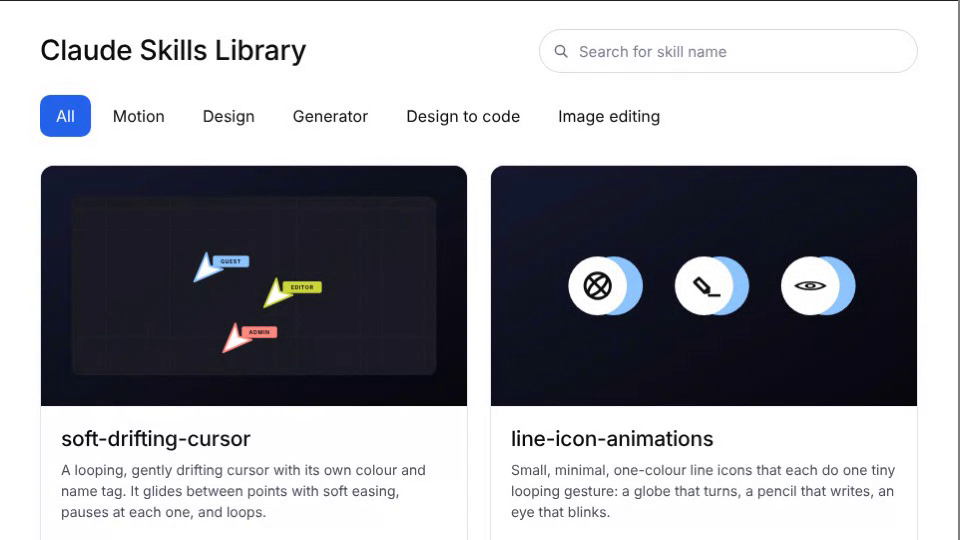
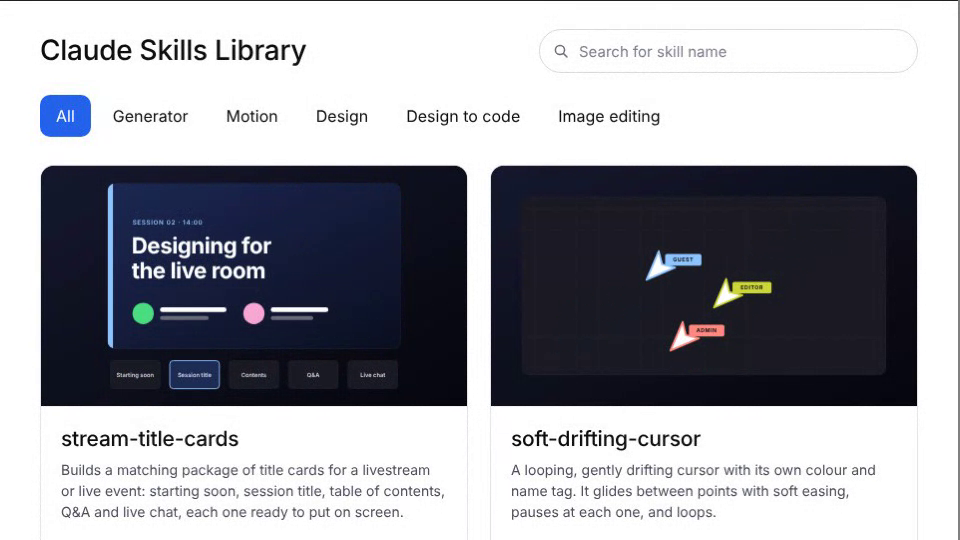
Skills Library: stream-title-cards entry (starting soon, session title, contents, Q&A, live chat)
Claude-Session: https://claude.ai/code/session_016rpgubnqZgbgFVCTgTmm7G

diff --git a/skills-library/index.html b/skills-library/index.html
@@ -145,6 +145,14 @@ var ICON={
 };
 var SKILLS=[
   {
+    title:'stream-title-cards',
+    desc:'Builds a matching package of title cards for a livestream or live event: starting soon, session title, table of contents, Q&A and live chat, each one ready to put on screen.',
+    category:'Generator', cIcon:'image',
+    use:'Livestreams and webinars', uIcon:'motion',
+    art:'art/stream-title-cards.svg',
+    alt:'A 16:9 screen cycles through five stream cards: a starting soon countdown, a session title with speakers, an agenda, a Q&A card and a live chat panel, with a tab row below marking each one'
+  },
+  {
     title:'soft-drifting-cursor',
     desc:'A looping, gently drifting cursor with its own colour and name tag. It glides between points with soft easing, pauses at each one, and loops.',
     category:'Motion', cIcon:'motion',
@@ -332,6 +340,9 @@ var EX={
 'asset-generator-engine':[['blog-banner-studio','Blog Banner Studio'],['conference-post-generator','Conference Post Creator'],['lifecycle-image-engine','Lifecycle Image Studio'],['hero-banner-engine','Banner Template Studio'],['postmark-ribbon-engine','Postmark Awards Ribbon Engine'],['grubclub-end-card','Grubclub End Card Maker'],['https://kristynagottvald.github.io/sketches/ribbon-text/','Postmark Awards','https://kristynagottvald.github.io/sketches/clips/ribbon-text.webp','https://kristynagottvald.github.io/sketches/ribbon-text/thumbnail.jpg'],['https://kristynagottvald.github.io/sketches/pattern-generator/','Pattern Generator','https://kristynagottvald.github.io/sketches/clips/pattern-generator.webp','https://kristynagottvald.github.io/sketches/pattern-generator/thumbnail.jpg']]};
 var RM=window.matchMedia&&matchMedia('(prefers-reduced-motion: reduce)').matches;
 var D={
+'stream-title-cards':{saves:'Designing every holding screen and lower third for a stream from scratch',work:["Designing a starting soon screen, a title card, an agenda, a Q&A slide and a chat overlay one at a time, and keeping them consistent","Retyping the session name, speakers, times and agenda into every card whenever the running order changes","Exporting each card at 16:9 for OBS, StreamYard or Zoom, and wiring up a countdown that actually counts down"],
+ p:["This skill builds a full set of on-screen cards for a livestream, webinar or live event, in one consistent look. You choose which cards the package needs from five options: Starting soon, Session title, Table of contents, Q&A and Live chat.","Starting soon is a holding screen with a live countdown to the start time and a gently looping background, so the stream can go live early. Session title shows the session name, time and each speaker’s name and role. Table of contents lists the agenda as numbered sections and can highlight the one in progress. Q&A invites questions and shows the current one on a card. Live chat leaves room for a chat feed beside the speaker, with a LIVE badge.","Every card shares one set of brand colours, type and spacing, and reads its text from a single list of session details, so changing the title, time or agenda once updates the whole package. Each card renders at 1920×1080 and can be shown full screen as a browser source in OBS or StreamYard, or exported as a still or a short looping clip."],
+ prompts:["Use stream-title-cards to make a livestream package with starting soon, session title, table of contents, Q&A and live chat cards.","Make a starting soon card with a countdown to 2pm and a session title card for two speakers, in our brand colours.","Add a table of contents card from this agenda that highlights the current section, plus a Q&A card for the end."]},
 'soft-drifting-cursor':{saves:'Keyframing a cursor’s path by hand, over and over',work:["Plotting each point a cursor visits and moving it there frame by frame","Tuning the easing so the cursor glides instead of jerking from point to point","Offsetting several cursors so they never move in lockstep, and matching each name tag to its cursor"],
  p:["This skill is only about the cursor. It builds a small pointer that drifts around a scene in a soft, endless loop. The pointer is a simple white arrow with a thin coloured outline, tilted so its tip points down and to the left, with a small name tag trailing up and to the right in the same colour.","Its movement is a list of stops. For each stop you give the position and how long the cursor takes to get there. It eases out of one stop and into the next so it glides rather than snaps, and repeating a position makes it pause there. When it reaches the end, it returns to where it began, so the loop has no jump.","For a more natural drift, the cursor can pick its own targets from a repeatable pattern and curve slightly on the way instead of going in a straight line. Give each cursor its own colour, name and loop length, and several of them will wander at the same time without ever moving in step."],
  prompts:["Use soft-drifting-cursor to add three labelled cursors that drift around this screen and loop.","Give each cursor its own colour, name tag and path, with loop lengths that differ so they never move in step.","Make the cursor glide in a gentle arc between points and pause on each one."]},
@@ -419,6 +430,7 @@ function route(){var m=/^#\/(.+)$/.exec(location.hash),s=m&&SKILLS.filter(functi
 window.addEventListener('hashchange',route);route();
 var STOP='a an the i my me we our you your is am are was be been it its this that these those of to for in on at by with and or but so if as do does did can could would should will how what why when where which who have has had having get got make made want need needs help trouble problem issue issues really very too much long forever take takes taking just some any into from out up down about like using use used tool thing things stuff'.split(' ');
 var GROUPS=[
+['stream','streaming','livestream','live','broadcast','webinar','event','obs','streamyard','twitch','youtube','starting','soon','countdown','title','card','agenda','contents','toc','q&a','qa','question','chat','overlay','lower','third','holding','package','session','speaker'],
 ['widow','orphan','runt','stranded','lonely','hanging','wrap','wrapping','break','typography','typeset','paragraph','heading','headline','text','line','word'],
 ['scan','scanner','field','form','detect','read','reading','agent','overlay','badge','highlight','screen','number','counter'],
 ['mockup','mock','ui','interface','dashboard','card','kit','component','fake','placeholder','chip','toggle','calendar','window','glass'],
